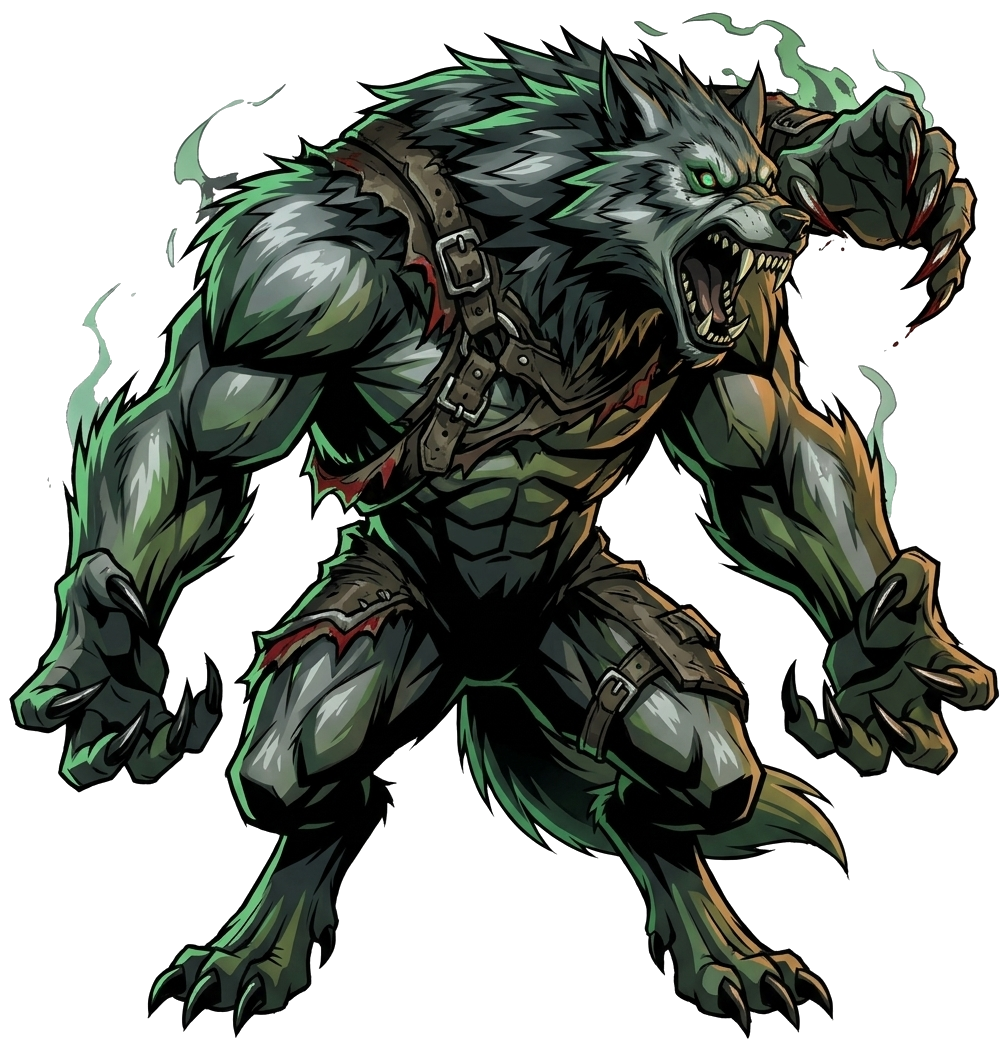
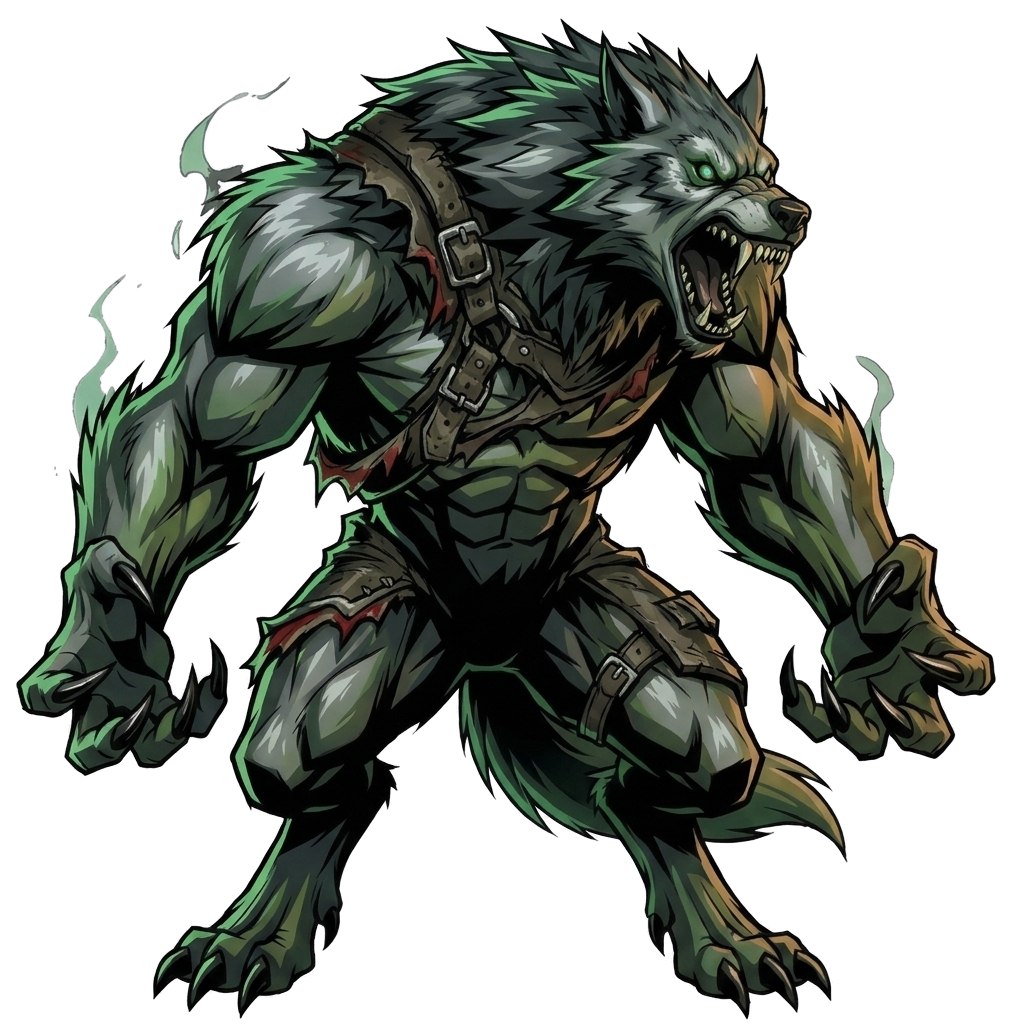
fix(art): regenerate green_40_licantropo_alfa removing extra paw with clean RGBA unmixing (v37)

Changed region(s): [[0.0, 0.0, 1.0, 1.0], [0.123, 0.7812, 0.3383, 1.0], [0.369, 0.7188, 0.3998, 0.7812]]

diff --git a/src/components/CardView.tsx b/src/components/CardView.tsx
@@ -371,7 +371,7 @@ export const CardView: React.FC<CardViewProps> = ({
           <div className={`cpa-token-art aura-${displayCard.domain}`}>
             {!imgError && displayCard.imagePath ? (
               <img
-                src={`${displayCard.imagePath}?v=54`}
+                src={`${displayCard.imagePath}?v=55`}
                 alt={displayName}
                 className="cpa-token-img"
                 onError={() => setImgError(true)}
@@ -528,7 +528,7 @@ export const CardView: React.FC<CardViewProps> = ({
 
           {!imgError && displayCard.imagePath ? (
             <img
-              src={`${displayCard.imagePath}?v=54`}
+              src={`${displayCard.imagePath}?v=55`}
               alt={displayName}
               className="card-cutout-img"
               onError={() => setImgError(true)}

diff --git a/public/sw.js b/public/sw.js
@@ -1,4 +1,4 @@
-const CACHE_VERSION = 'chromatic-pact-v36';
+const CACHE_VERSION = 'chromatic-pact-v37';
 const ASSET_CACHE = `${CACHE_VERSION}-assets`;
 
 const PRECACHE_URLS = [
